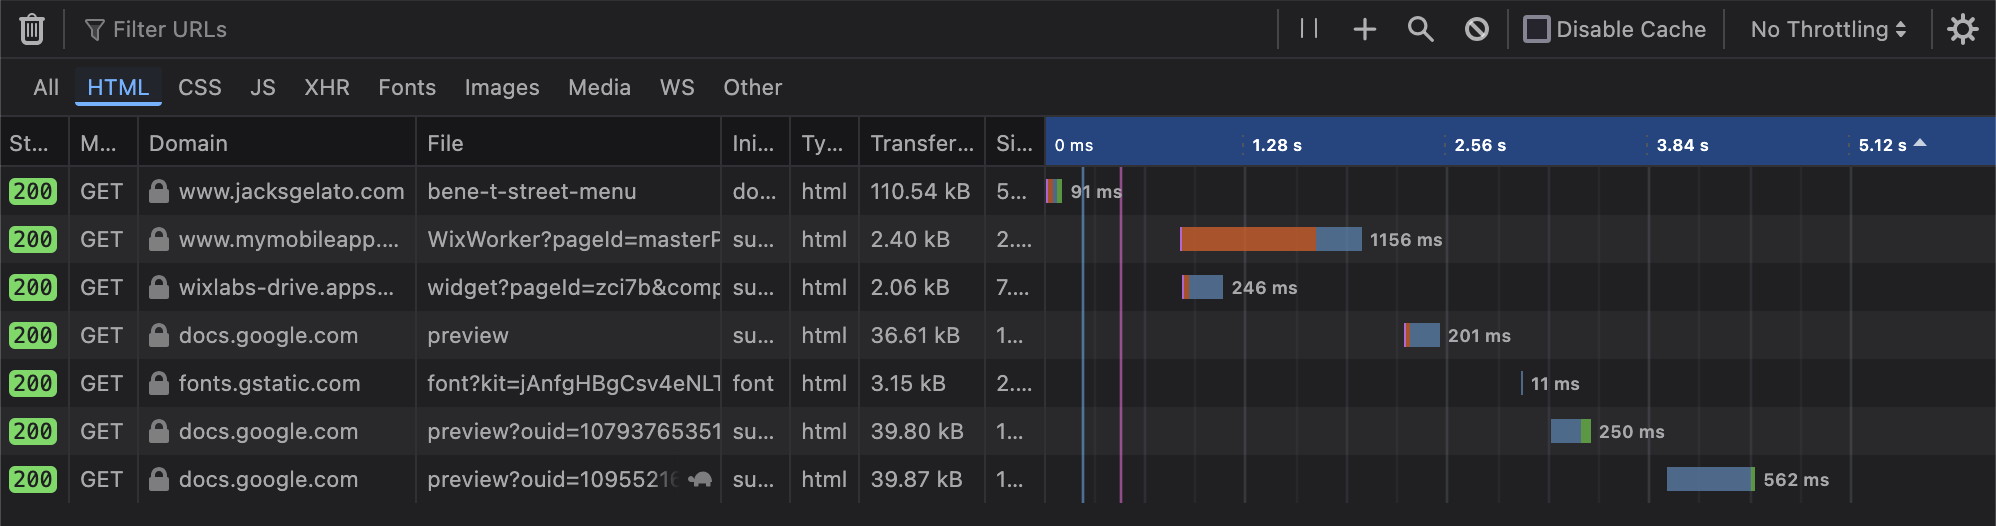
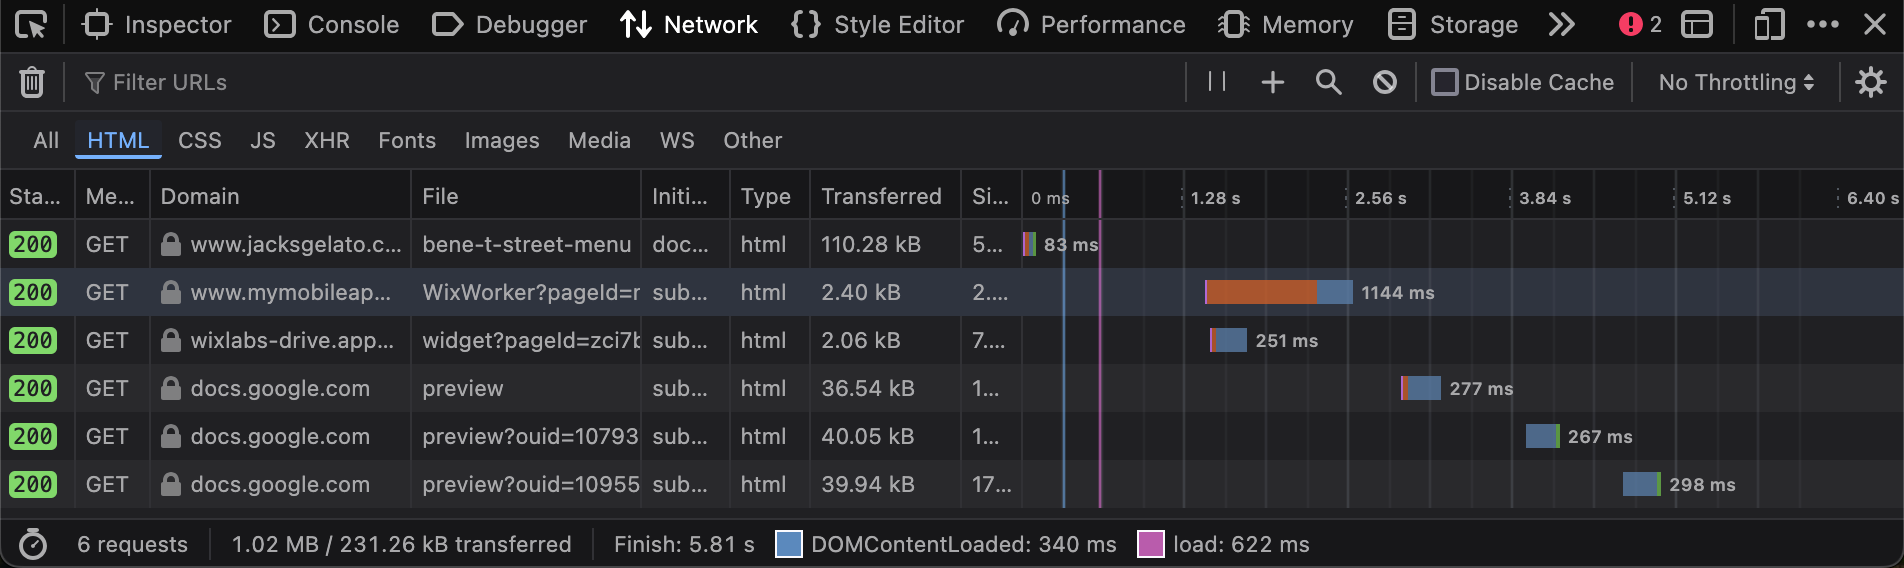
Add math support and fix errors in gelato blog posts

diff --git a/themes/minimal-theme/layouts/partials/math.html b/themes/minimal-theme/layouts/partials/math.html
@@ -1,0 +1,12 @@
+<script id="MathJax-script" async src="https://cdn.jsdelivr.net/npm/mathjax@3/es5/tex-chtml.js"></script>
+<script>
+  MathJax = {
+    tex: {
+      displayMath: [['\\[', '\\]'], ['$$', '$$']],  // block
+      inlineMath: [['\\(', '\\)']]                  // inline
+    },
+    loader:{
+      load: ['ui/safe']
+    },
+  };
+</script>

diff --git a/themes/minimal-theme/layouts/partials/head.html b/themes/minimal-theme/layouts/partials/head.html
@@ -14,3 +14,7 @@
     {{ $scss := resources.Get "scss/main.scss" }}
     {{ $style := $scss | css.Sass | resources.Minify }}
     <link rel="stylesheet" href="{{ $style.Permalink }}">
+
+    {{ if .Param "math" }}
+        {{ partialCached "math.html" . }}
+    {{ end }}

diff --git a/content/posts/a_faster_gelato.md b/content/posts/a_faster_gelato.md
@@ -2,6 +2,7 @@
 title: "A Faster Gelato"
 author: "Edmund Goodman"
 date: 2024-10-27T23:51:22Z
+math: true
 ---
 
 I love Jack's Gelato. Unfortunately, their website's menu sucks.
@@ -11,9 +12,9 @@ I love Jack's Gelato. Unfortunately, their website's menu sucks.
 
 ## Why the existing menu sucks
 
-The most noticeable issue of the current website is that it takes **4.5 seconds**
-to display the menu. To add insult to injury, the text
-"Can take a few seconds to Load.. \[sic\]" is shown whilst you wait.
+The most noticeable issue of the current website is that it takes
+**5.8 seconds** to display the menu. To add insult to injury, the text
+"Can take a few seconds to load.." is shown whilst you wait.
 
 {{< figure
     src="/images/posts/a_faster_gelato/offending_text.png"
@@ -21,7 +22,8 @@ to display the menu. To add insult to injury, the text
     caption="A screenshot of Jack's Gelato menu website.">}}
 
 Using Firefox's web inspector tools, we can trace the network requests made to
-load the website HTML to attempt to diagnose the sluggish loading times.
+load the website HTML to attempt to diagnose the cause of the slow loading
+times.
 
 {{< figure
     src="/images/posts/a_faster_gelato/jacks_gelato_slow_load.png"
@@ -31,19 +33,19 @@ load the website HTML to attempt to diagnose the sluggish loading times.
 This shows that the dominant factor in menu latency is that it is served as an
 embedded Google Doc through a Wix plugin. This plugin spends over a second
 interacting with its [developer's website](https://www.mymobileapp.online), then
-201ms retrieving a placeholder document to show before it starts retrieving the
-actual menu document. After this, it finally retrieves the menu document for a
-total of 4.5 seconds menu latency.
+277ms retrieving a placeholder document to show before it starts retrieving the
+actual menu document. Finally, it retrieves the menu document for a total of 5.8
+seconds of menu latency.
 
 {{< figure
     src="/images/posts/a_faster_gelato/wix_placeholder.png"
-    alt="A screenshot of the placeholder document, retrieved by blocking requestt."
+    alt="A screenshot of the placeholder document, retrieved by blocking request."
     caption="A screenshot of the placeholder document, retrieved by blocking request.">}} 
 
-On top of the egregiously slow load times, the website transmits 9.5MB zipped of
-resources. In contrast, the gzipped text content of a
-[representative menu](https://raw.githubusercontent.com/EdmundGoodman/jacks-menu-history/refs/heads/main/raw/24_10_04__benet_street.txt) is 570 bytes [^1]. On my
-pay-as-you-go data plan charging 10p per MB [^2], it costs nearly one pound to
+On top of the slow load times, the website transmits 9.5MB zipped of resources
+[^1]. In contrast, the gzipped text content of a
+[representative menu](https://raw.githubusercontent.com/EdmundGoodman/jacks-menu-history/refs/heads/main/raw/24_10_04__benet_street.txt) is 570 bytes [^2]. On my
+pay-as-you-go data plan charging 10p per MB [^3], it costs nearly one pound to
 load the menu website. Whilst much of this blame can be attributed
 to price gouging by mobile service providers, it does strongly motivate making
 a lighter and faster website.
@@ -55,7 +57,7 @@ Tl;dr (full write-up coming soon):
 1. Wrote a [Python package](https://pypi.org/project/jacks-menu/) which:
    - Extracts the menu Google Doc URL using Selenium
    - Retrieves a text representation of the menu using the Google Docs API
-   - Parses the text representation with a finite-state machine [^3]
+   - Parses the text representation with a finite-state machine [^4]
    - Generates a markdown document from the parsed menu
 2. Wrote a [cron job](https://github.com/EdmundGoodman/jacks-menu-history/blob/main/.github/workflows/gelato.yml) in GitHub Actions which runs the package at 10:20am every
    day to retrieve the menu into an [artefact repository](https://github.com/EdmundGoodman/jacks-menu-history)
@@ -87,10 +89,11 @@ Additionally, their website runs no advertising so this is not depriving them of
 profit in that respect.
 
 
-[^1]: This means the information a customer cares about, which icecream
-is available that day, is transmitted at approximately 890 bits per second,
-0.00356% of the [lower-bound average 4G bandwidth in the UK](https://simrush.com/fastest-4g-network-uk/).
-[^2]: [Three Pay As You Go Price Guide](https://www.three.co.uk/content/dam/threedigital/terms-and-conditions/price-guides/latest-price-guides/paygplans-priceguide-12052023.pdf)
-[^3]: This by identity could be expressed as a regular expression, but the
+[^1]: 1.02MB of HTML, 9.5MB total including JavaScript and other resources.
+[^2]: This means the information a customer cares about, which icecream
+is available that day, is transmitted at approximately \(\frac{570 \times 8}{5.8} \approx 786\) bits per second,
+0.00314% of the [lower-bound average 4G bandwidth in the UK](https://simrush.com/fastest-4g-network-uk/).
+[^3]: [Three Pay As You Go Price Guide](https://www.three.co.uk/content/dam/threedigital/terms-and-conditions/price-guides/latest-price-guides/paygplans-priceguide-12052023.pdf)
+[^4]: This by identity could be expressed as a regular expression, but the
 finite-state machine is a little more readable and hence maintainable when
 the menu format inevitably changes
